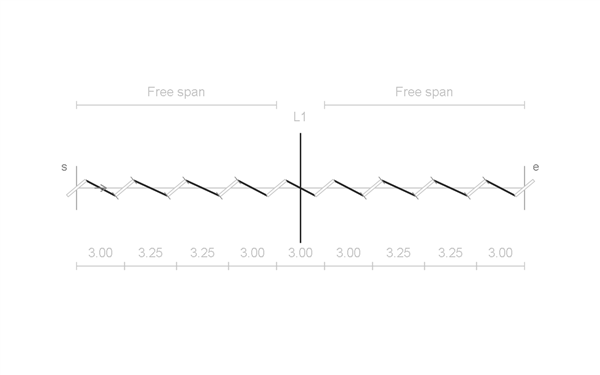
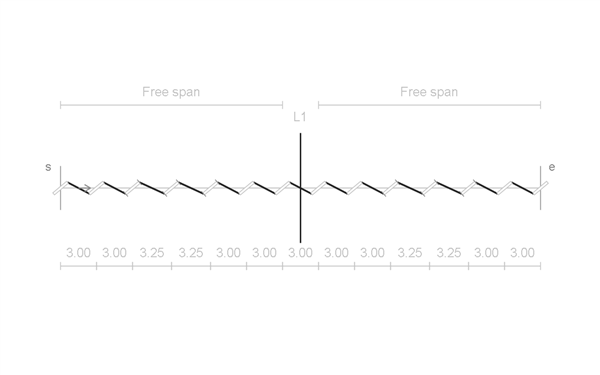
Extend landmark example to emphasize nominal stitch runs

diff --git a/examples/illustrated/README.md b/examples/illustrated/README.md
@@ -96,7 +96,7 @@ A slit follows the labelled local tangent without changing length or lean. The g
 
 ### Reserve a landmark pair: A4, A5, A7
 
-Five slits on each side of the central landmark. Each free span has two central $3.25\,\mathrm{mm}$ gaps, with nominal gaps at its ends; the protected landmark gap remains $3\,\mathrm{mm}$. The animation moves the adjustments away from the feature while maintaining mirrored positions and fixed openings. `ILL-LANDMARK`: $28\,\mathrm{mm}$ guide, L1 at $14\,\mathrm{mm}$.
+Seven slits on each side of the central landmark. Extending the guide preserves the $0.50\,\mathrm{mm}$ residual per span while adding nominal runs around each adjustment block. Each free span has two central $3.25\,\mathrm{mm}$ gaps, with nominal gaps at its ends; the protected landmark gap remains $3\,\mathrm{mm}$. The animation moves the adjustments away from the feature while maintaining mirrored positions and fixed openings. `ILL-LANDMARK`: $40\,\mathrm{mm}$ guide, L1 at $20\,\mathrm{mm}$.
 
 ![Adjustments move into the free spans while endpoints and the landmark pair stay fixed](assets/axiom-landmark.gif)
 

diff --git a/docs/PITCH_skeleton.md b/docs/PITCH_skeleton.md
@@ -145,7 +145,7 @@
 - The landmark gap is protected from adjustment
 - Absorb each free span's residual in its unprotected gaps, within $0.9p\leq g\leq1.1p$
 - Centre the adjustments within each span; the two sides can require different corrections
-- Example: five slits on each side, with two central $3.25\,\mathrm{mm}$ gaps per span; the landmark pair stays $3\,\mathrm{mm}$ apart
+- Example: seven slits on each side, with two central $3.25\,\mathrm{mm}$ gaps per span; the landmark pair stays $3\,\mathrm{mm}$ apart
 
 ![A4, A5 and A7: keep the landmark pair fixed while distributing bounded adjustments within each free span](../examples/illustrated/assets/axiom-landmark.gif)
 
